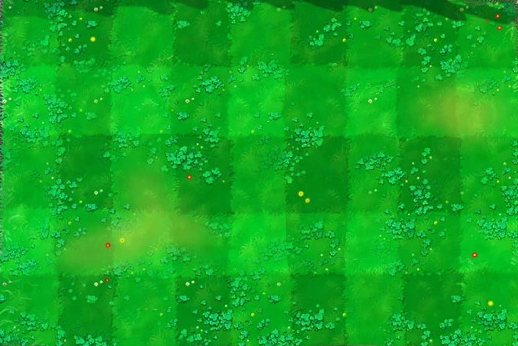
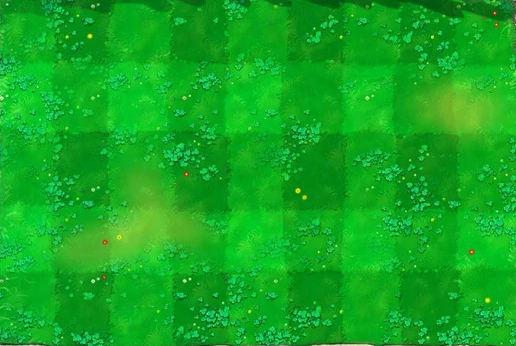
recrop to fix 'map' display

diff --git a/sketch.js b/sketch.js
@@ -11,7 +11,7 @@ let bg_road;
 let bg_topFence;
 let bg_bottomTile;
 let lawn;
-
+let lawnend;
 
 
 
@@ -37,6 +37,7 @@ function preload(){
   bg_topFence = loadImage("bgImages/day/topFence.png");
   bg_road= loadImage("bgImages/day/road.png");
   lawn = loadImage("bgImages/day/lawn.png");
+  lawnend = loadImage("bgImages/day/lawnroadinbetween")
   
 
 
@@ -57,14 +58,12 @@ function draw() {
 
 function displayBackground(){
   image(bg_house, 0, 0);
-  let bottomTileX = bg_house.width;
-  let bottomTileY = bg_house.height - bg_bottomTile.height;
-  image(bg_bottomTile, bottomTileX, bottomTileY);
-  let roadX = bottomTileX + bg_bottomTile.width;
-  image(bg_road, roadX, 0);
+  image(bg_topFence,bg_house.width,0)
+  image(bg_bottomTile,bg_house.width,bg_topFence.height+lawn.height)
+  image(lawnend,bg_house.width+lawn.width,0)
+  // image(bg_road,bg_house.width+bg_topFence.width+lawnend.width, 0)
+  image(lawn, bg_house.width, bg_topFence.height)
 
-  image(bg_topFence, bottomTileX, 0);
-  let lawnY = bg_topFence.height;
-  image(lawn,bottomTileX,lawnY);
-  // image()
+
+  
 }
